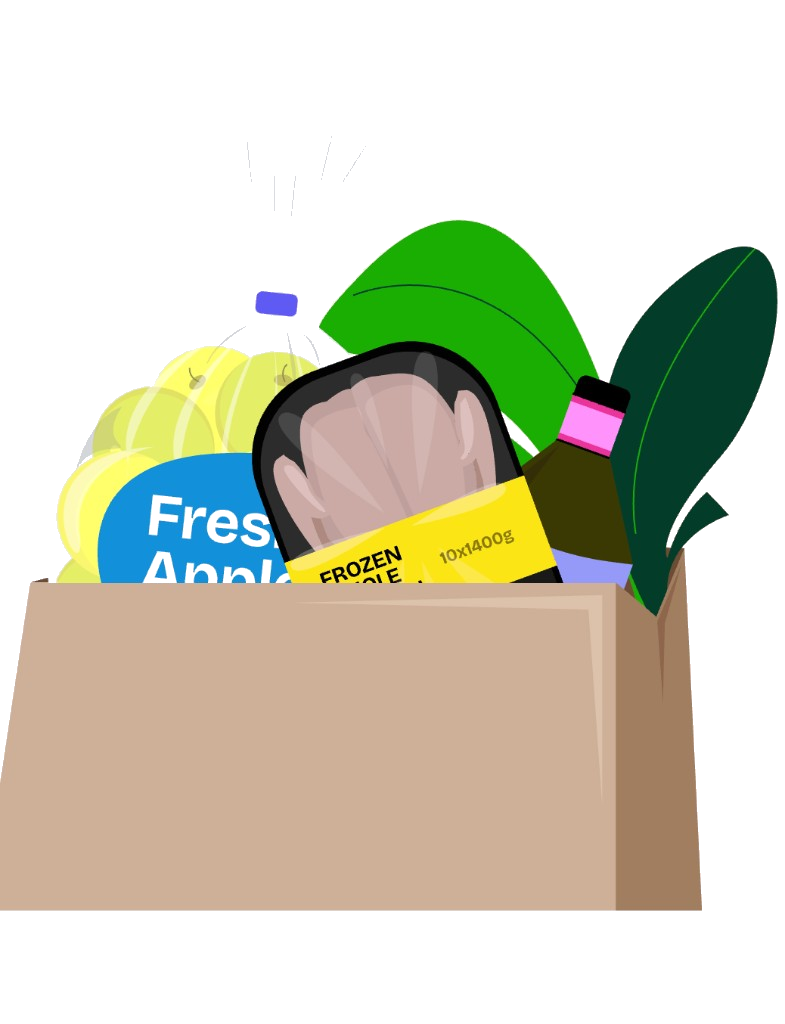
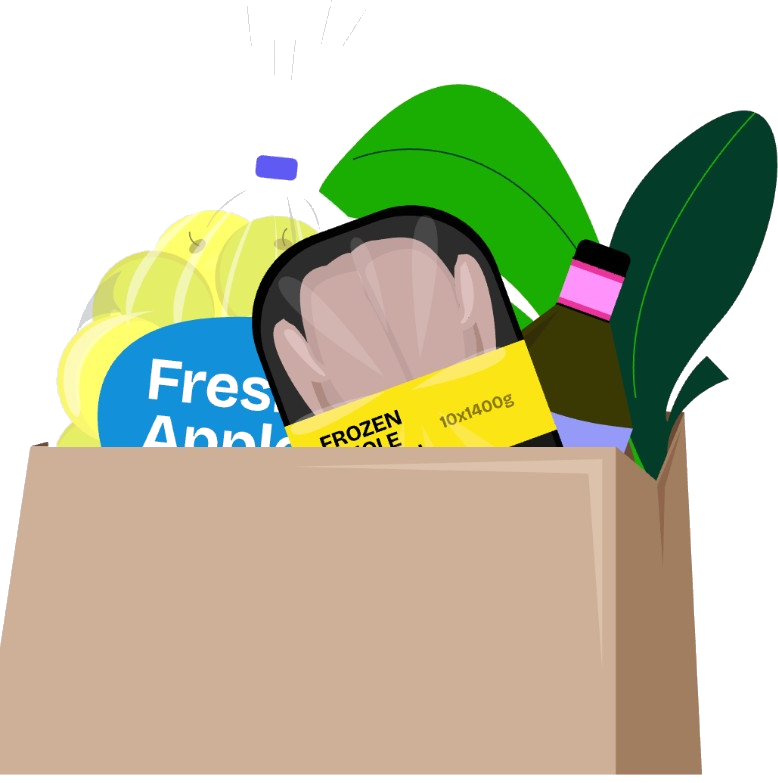
fix(website): align hero basket sizing and carousel polish
Unify both hero slide heights, mirror purple clone content to prevent blank carousel flashes, and position the basket at gosource.app dimensions on the hero bottom edge.

Changed region(s): [[0.0, 0.092, 1.0, 1.0], [0.0, 0.613, 0.0308, 0.7969]]

diff --git a/apps/website/app/components/sections/HeroSection.vue b/apps/website/app/components/sections/HeroSection.vue
@@ -2,6 +2,10 @@
 import { CUSTOMER_MARKET_URL, CUSTOMER_REGISTER_URL } from '~/lib/customer-app';
 import { MOBILE_DOWNLOAD_LINKS } from '~/lib/mobile-download';
 
+useHead({
+  link: [{ rel: 'preload', as: 'image', href: '/images/hero/hero-basket.png' }],
+});
+
 /**
  * Hero slider (Figma 891-23356). Two full-width rounded slides:
  *  0 — purple: headline + CTAs, with the grocery basket illustration on the right.
@@ -75,27 +79,27 @@ const trackStyle = computed(() => ({
 // The three panels: purple, peach, purple (clone for a seamless left loop).
 const panels = ['purple', 'peach', 'purple'] as const;
 
-/** Only the first purple slide carries visible copy/media — the clone is for the loop. */
-function isPrimaryPurple(type: (typeof panels)[number], index: number) {
-  return type === 'purple' && index === 0;
+/** Clone panel (index 2) mirrors slide 0 for the seamless loop — hide from assistive tech. */
+function isPurpleClone(index: number) {
+  return index === 2;
 }
 </script>
 
 <template>
   <section class="bg-white pt-3 sm:pt-4">
     <div class="site-container">
-      <div class="overflow-hidden rounded-[32px]">
+      <div class="overflow-hidden rounded-[32px] min-h-[26rem] lg:h-[600px]">
         <div class="flex w-full" :style="trackStyle">
           <div
             v-for="(type, i) in panels"
             :key="i"
-            class="relative min-w-full flex-[0_0_100%] overflow-hidden rounded-[32px]"
+            class="relative min-h-[26rem] min-w-full flex-[0_0_100%] overflow-hidden rounded-[32px] lg:h-[600px]"
           >
             <!-- ============ PURPLE SLIDE ============ -->
             <div
               v-if="type === 'purple'"
-              class="relative flex h-full min-h-[26rem] flex-col justify-center overflow-hidden rounded-[32px] bg-purple-50 px-6 py-14 sm:px-12 lg:h-[600px] lg:px-20 lg:py-0"
-              :aria-hidden="!isPrimaryPurple(type, i) || undefined"
+              class="relative flex h-full flex-col overflow-hidden rounded-[32px] bg-purple-50 px-6 py-14 sm:px-12 lg:px-20 lg:py-0"
+              :aria-hidden="isPurpleClone(i) || undefined"
             >
               <!-- Background particles — positioned per Figma 952:7806 (card 1346×567) -->
               <img src="/images/hero/p-shape-br.svg" alt="" aria-hidden="true" class="pointer-events-none absolute left-[44%] top-[30%] z-0 hidden w-[48.5%] select-none sm:block">
@@ -104,58 +108,58 @@ function isPrimaryPurple(type: (typeof panels)[number], index: number) {
               <img src="/images/hero/p-ribbon.svg" alt="" aria-hidden="true" class="pointer-events-none absolute left-[77%] top-[76%] z-0 hidden w-[5%] min-w-[30px] select-none sm:block">
               <img src="/images/hero/p-dot-br.svg" alt="" aria-hidden="true" class="pointer-events-none absolute left-[89.5%] top-[77%] z-0 w-[13.2%] min-w-[42px] select-none">
 
-              <template v-if="isPrimaryPurple(type, i)">
-                <div class="relative z-10 flex w-full flex-col gap-8 lg:h-full lg:flex-row lg:items-stretch lg:gap-10">
-                  <div class="flex min-w-0 w-full max-w-xl flex-1 flex-col justify-center">
-                    <h1 class="text-display !leading-[0.98] text-[#650e65]">
-                      All your food supplies in
-                      <span class="block text-serif-accent text-[1.06em] leading-[0.95] text-purple-500">
-                        one platform
-                      </span>
-                    </h1>
-                    <p class="mt-6 max-w-lg text-base leading-relaxed text-grey-700 sm:text-lg">
-                      GoSource is the modern way to source food in Nigeria — connecting
-                      restaurants, hotels, caterers and households to fresh supplies at
-                      bulk prices.
-                    </p>
-                    <div class="mt-8 flex flex-wrap items-center gap-4">
-                      <a
-                        :href="CUSTOMER_REGISTER_URL"
-                        class="inline-flex h-12 items-center gap-2 rounded-full bg-primary-500 px-6 text-lg font-semibold text-white transition hover:bg-primary-600"
-                      >
-                        Get started for free
-                        <Icon name="lucide:chevron-right" class="size-4" />
-                      </a>
-                      <a
-                        :href="MOBILE_DOWNLOAD_LINKS.ios"
-                        target="_blank"
-                        rel="noopener noreferrer"
-                        class="inline-flex h-12 items-center gap-2 rounded-full bg-white px-6 text-lg font-semibold text-grey-900 shadow-sm transition hover:bg-grey-50"
-                      >
-                        <Icon name="lucide:apple" class="size-4" />
-                        <Icon name="lucide:play" class="size-3.5" />
-                        Download app
-                      </a>
-                    </div>
-                  </div>
-
-                  <div class="flex w-full flex-1 items-end justify-center lg:justify-end">
-                    <img
-                      src="/images/hero/hero-basket.png"
-                      alt="Grocery bag filled with fresh food supplies"
-                      width="600"
-                      height="600"
-                      class="size-[280px] object-contain object-bottom drop-shadow-xl sm:size-[400px] lg:size-[600px]"
+              <div class="relative z-10 flex h-full w-full flex-col justify-center pb-56 sm:pb-64 lg:max-w-[58%] lg:pb-0 lg:pr-6">
+                <div class="flex min-w-0 w-full max-w-xl flex-col justify-center">
+                  <h1 class="text-display !leading-[0.98] text-[#650e65]">
+                    All your food supplies in
+                    <span class="block text-serif-accent text-[1.06em] leading-[0.95] text-purple-500">
+                      one platform
+                    </span>
+                  </h1>
+                  <p class="mt-6 max-w-lg text-base leading-relaxed text-grey-700 sm:text-lg">
+                    GoSource is the modern way to source food in Nigeria — connecting
+                    restaurants, hotels, caterers and households to fresh supplies at
+                    bulk prices.
+                  </p>
+                  <div class="mt-8 flex flex-wrap items-center gap-4">
+                    <a
+                      :href="CUSTOMER_REGISTER_URL"
+                      class="inline-flex h-12 items-center gap-2 rounded-full bg-primary-500 px-6 text-lg font-semibold text-white transition hover:bg-primary-600"
                     >
+                      Get started for free
+                      <Icon name="lucide:chevron-right" class="size-4" />
+                    </a>
+                    <a
+                      :href="MOBILE_DOWNLOAD_LINKS.ios"
+                      target="_blank"
+                      rel="noopener noreferrer"
+                      class="inline-flex h-12 items-center gap-2 rounded-full bg-white px-6 text-lg font-semibold text-grey-900 shadow-sm transition hover:bg-grey-50"
+                    >
+                      <Icon name="lucide:apple" class="size-4" />
+                      <Icon name="lucide:play" class="size-3.5" />
+                      Download app
+                    </a>
                   </div>
                 </div>
-              </template>
+              </div>
+
+              <!-- Basket — gosource.app asset is 524×548, seated on the hero bottom edge -->
+              <img
+                src="/images/hero/hero-basket.png"
+                alt="Grocery bag filled with fresh food supplies"
+                width="524"
+                height="548"
+                fetchpriority="high"
+                loading="eager"
+                decoding="async"
+                class="pointer-events-none absolute bottom-0 right-0 z-10 h-auto w-[min(72vw,300px)] object-contain object-bottom drop-shadow-xl sm:w-[380px] lg:w-[524px] lg:max-h-full"
+              >
             </div>
 
             <!-- ============ PEACH / DEALS SLIDE ============ -->
             <div
               v-else
-              class="relative flex h-full min-h-[26rem] flex-col justify-center overflow-hidden rounded-[32px] bg-[#fcece9] px-6 py-14 sm:px-12 lg:h-[567px] lg:px-20 lg:py-0"
+              class="relative flex h-full flex-col justify-center overflow-hidden rounded-[32px] bg-[#fcece9] px-6 py-14 sm:px-12 lg:px-20 lg:py-0"
             >
               <!-- Background particles — positioned per Figma 952:8136 (card 1346×567) -->
               <img src="/images/hero/pe-confetti-2.svg" alt="" aria-hidden="true" class="pointer-events-none absolute left-[27%] -top-[27%] z-0 hidden w-[48.4%] select-none sm:block">
